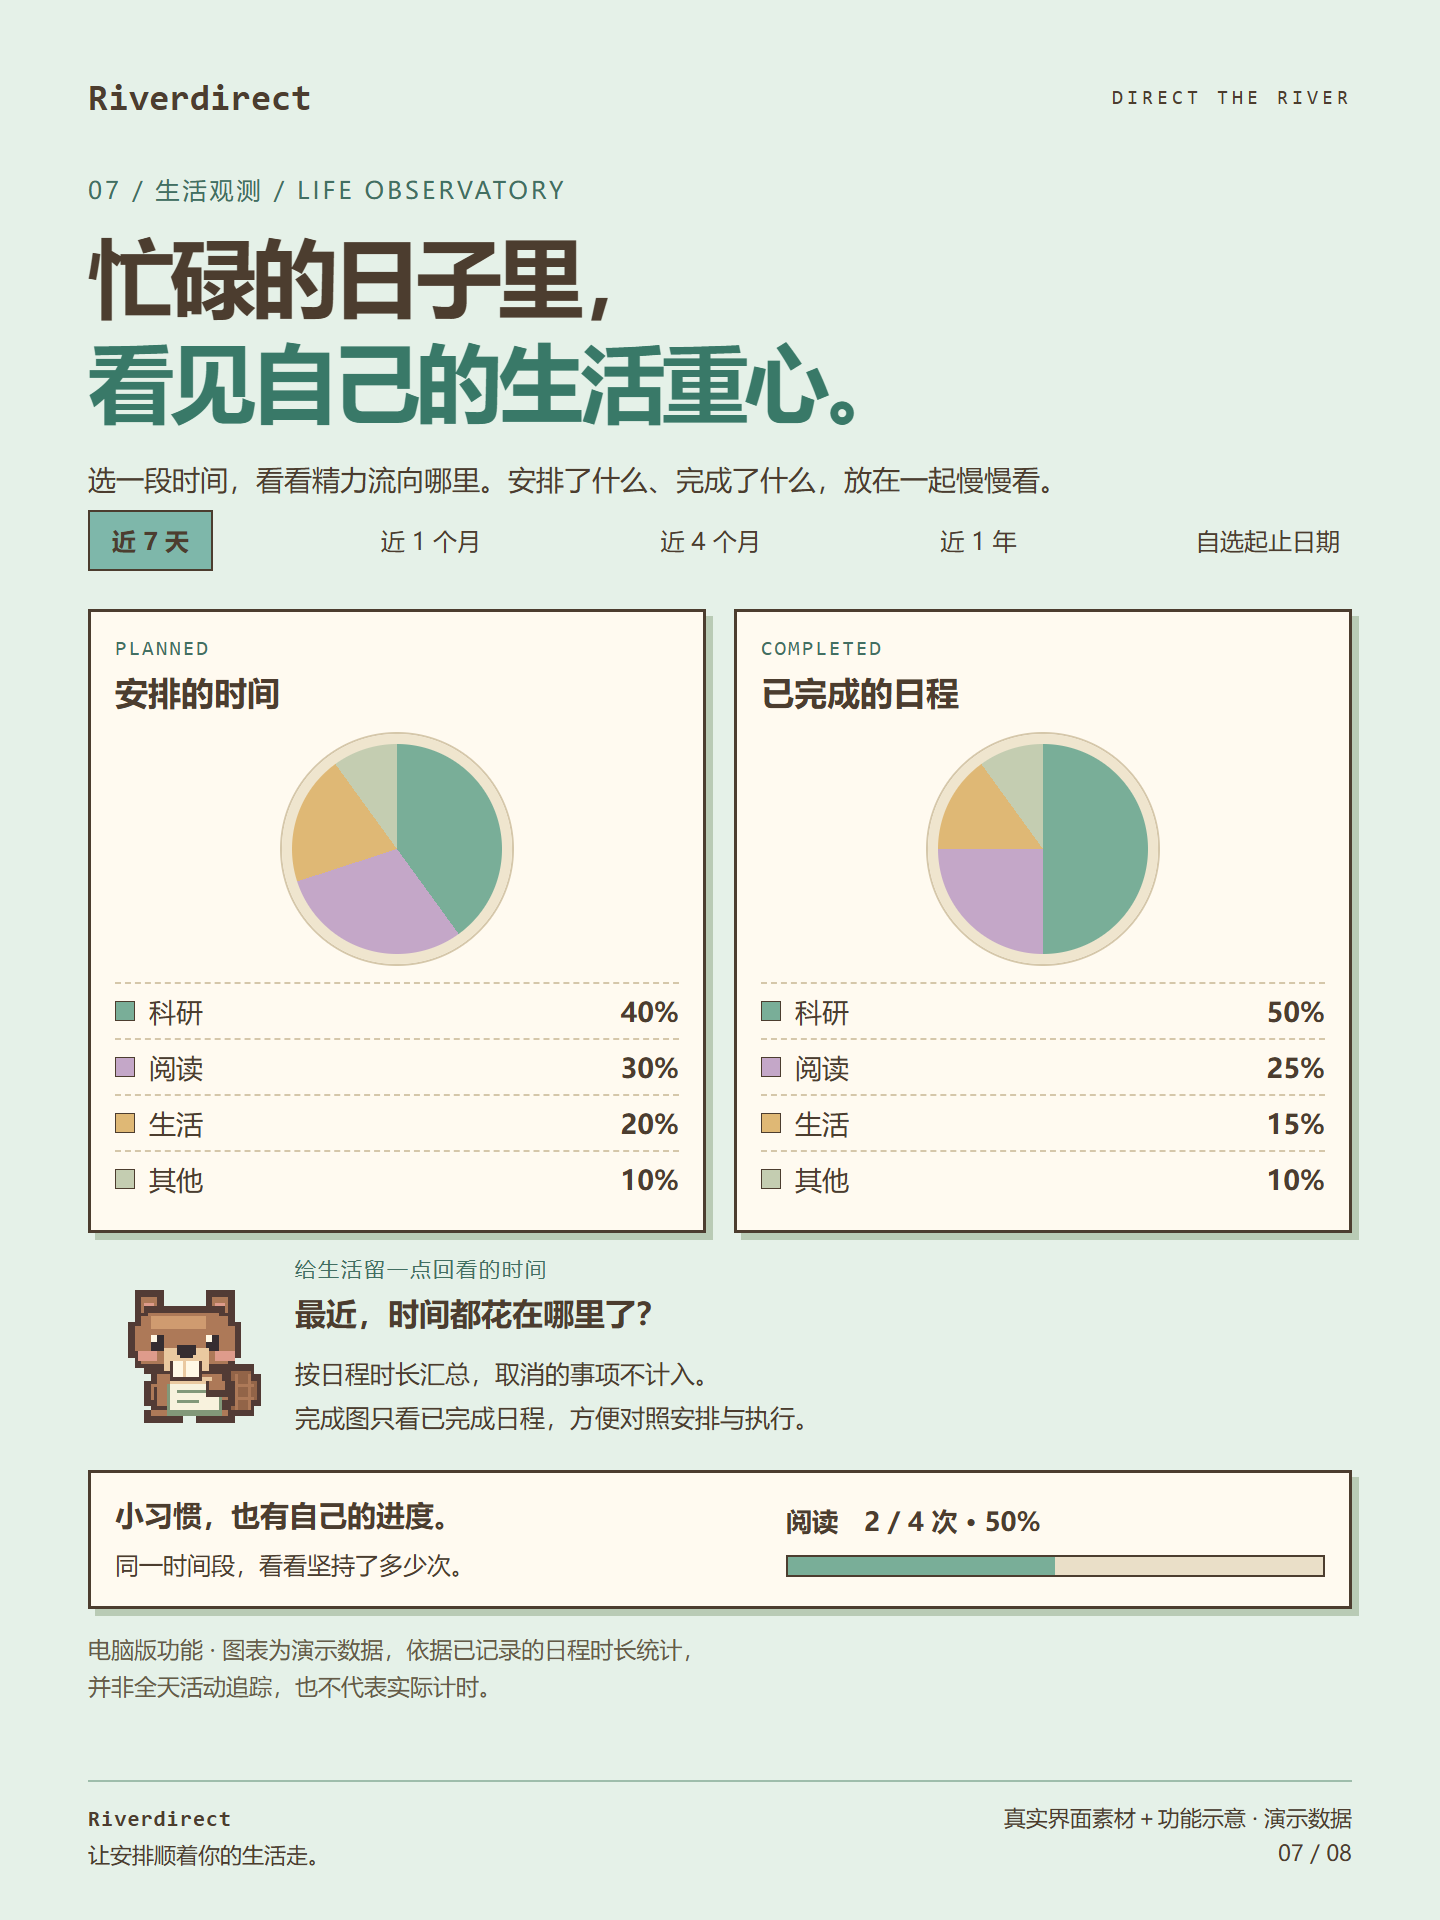
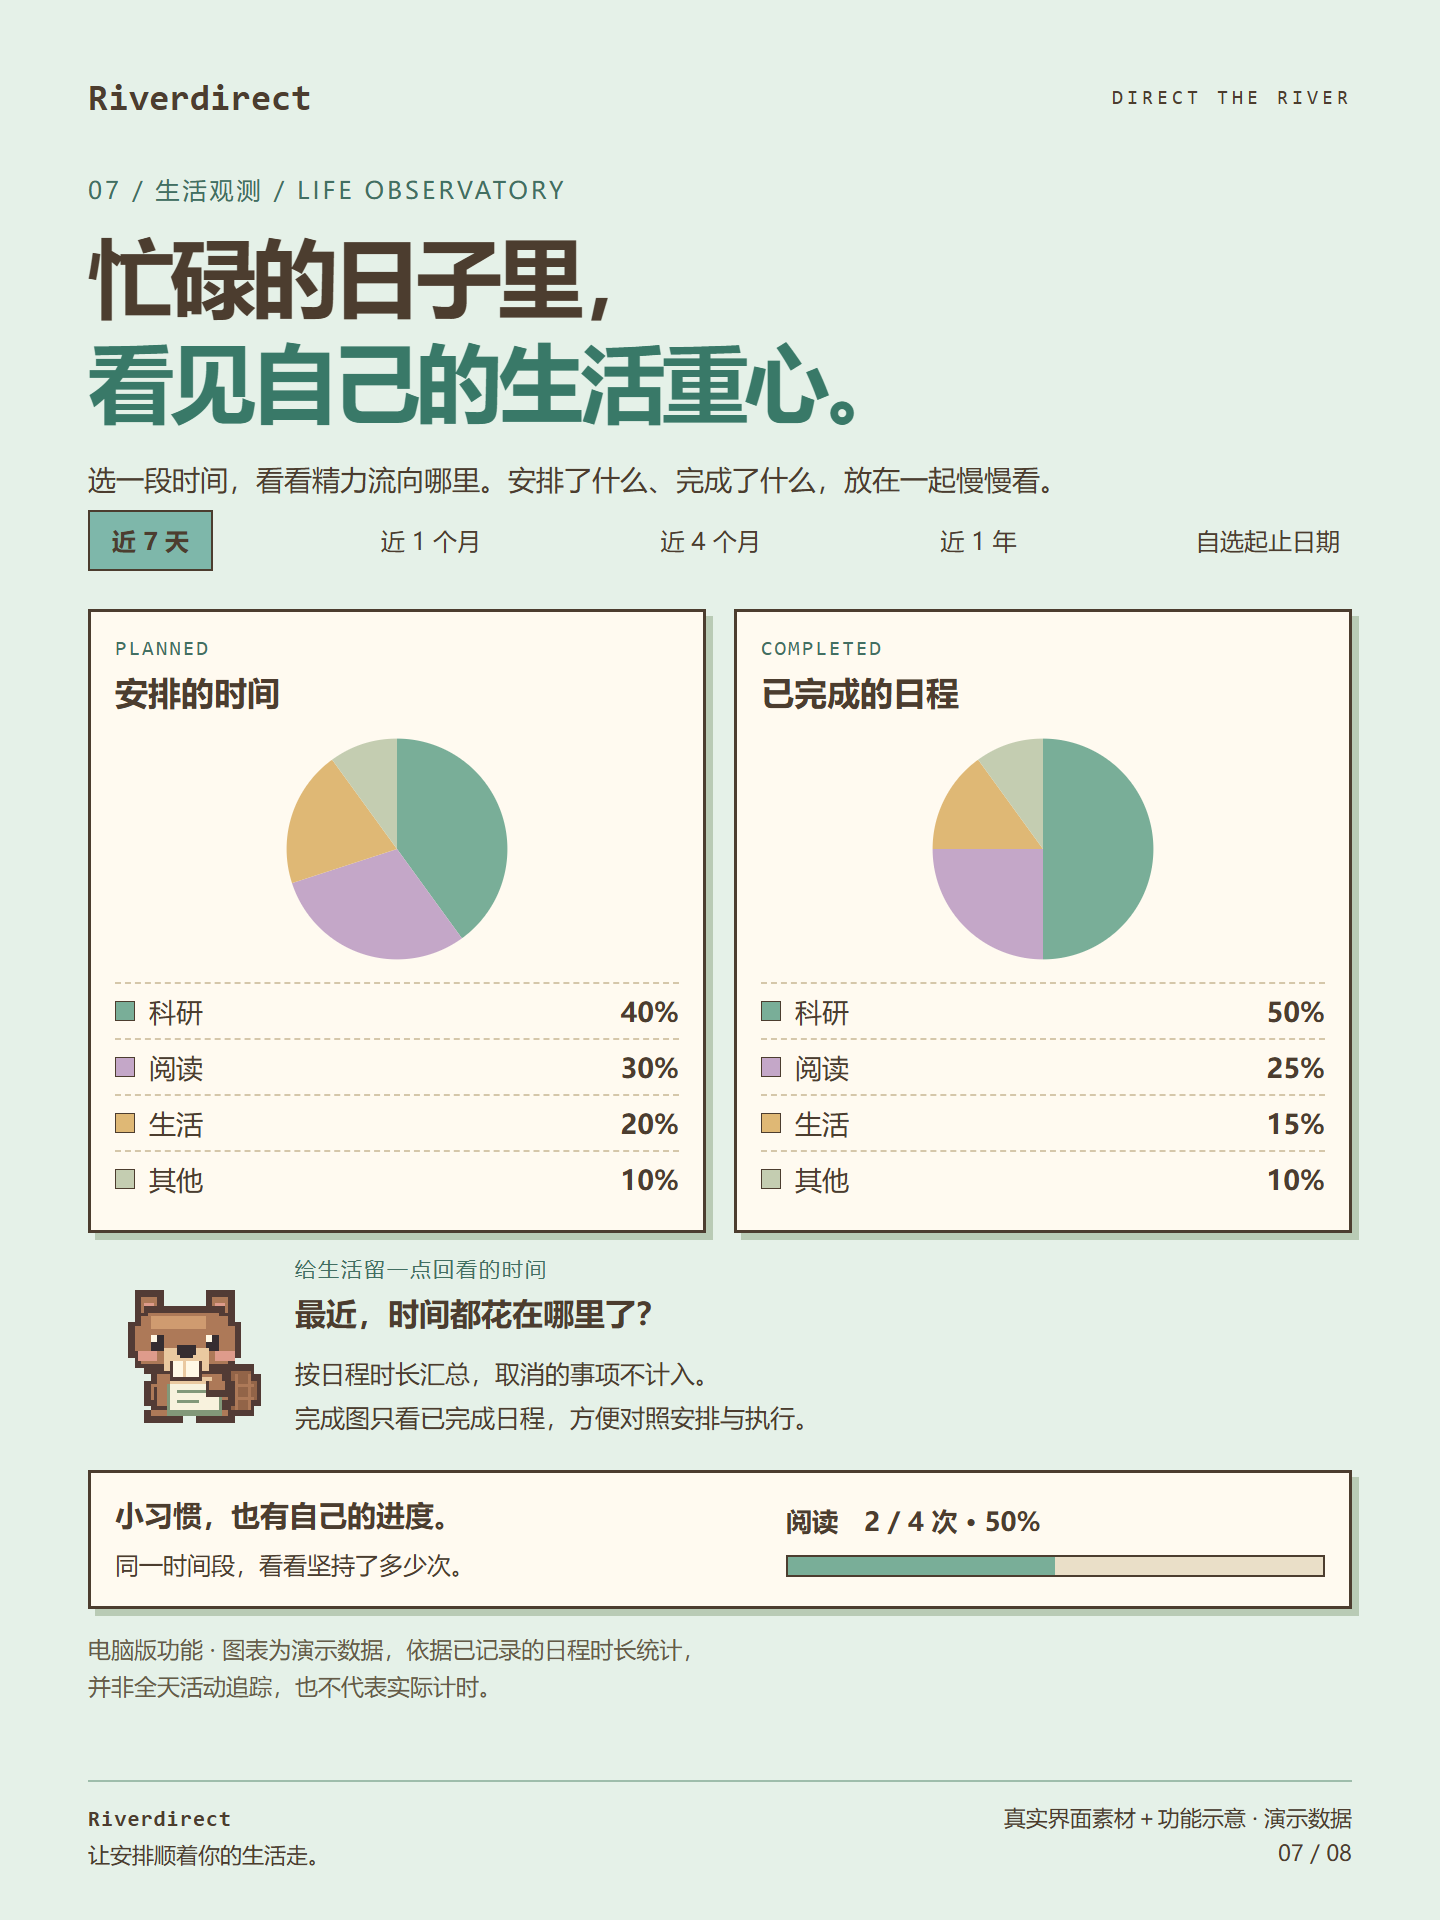
docs(release): document observation page and Chinese text fixes

diff --git a/README.md b/README.md
@@ -61,7 +61,7 @@
 
 ## 看看最近的生活重心
 
-电脑版“生活观测”提供近 7 天、1 个月、4 个月、1 年和自选日期范围。两张扇形图分别展示安排时间与已完成日程的类别占比，按记录的日程时长汇总，不计取消事项。它帮助回看安排与执行，并非全天活动追踪或实际用时测量。
+电脑版从侧栏进入独立的“生活观测”页面，采用纯色像素图表，提供近 7 天、1 个月、4 个月、1 年和自选日期范围。两张扇形图分别展示安排时间与已完成日程的类别占比，按记录的日程时长汇总，不计取消事项。它帮助回看安排与执行，并非全天活动追踪或实际用时测量。
 
 同一时间段还能查看小习惯完成比例，例如计划阅读 4 次、完成 2 次，就是 50%。
 
@@ -79,10 +79,10 @@
 
 | 设备 | 当前版本 | 使用方式 |
 |---|---|---|
-| Windows 10 / 11，64 位 | 0.1.30 | 下载 EXE，放入固定文件夹后双击，无需安装 Python |
-| Android | 0.1.30 | 下载 APK 安装，主要用于查看、询问、上传与提醒 |
+| Windows 10 / 11，64 位 | 0.1.31 | 下载 EXE，放入固定文件夹后双击，无需安装 Python |
+| Android | 0.1.31 | 下载 APK 安装，主要用于查看、询问、上传与提醒 |
 
-安卓包不是鸿蒙 6 原生应用。Windows EXE 约 90 MiB；APK 约 0.8 MB。两端当前版本统一为 0.1.30。
+安卓包不是鸿蒙 6 原生应用。Windows EXE 约 90 MiB；APK 约 0.8 MB。两端当前版本统一为 0.1.31。
 
 1. 可以先不登录，手动添加日程、体验日历和计时。
 2. 需要 AI 时，在设置中填写服务商接口地址、模型和 API Key；每台设备单独填写 Key。
@@ -103,15 +103,11 @@
 
 GitHub 在 Release 页面自动显示的 “Source code (zip)” 和 “Source code (tar.gz)” 是公开资料归档，名称由 GitHub 固定；其中不包含应用源码、SQL、测试脚本或个人数据。
 
-## 当前版本 0.1.30
+## 当前版本 0.1.31
 
-这次增加电脑悬浮窗点击表情，并调整两端的小河休息形象：仰躺、侧脸朝上，保留轻微呼吸。
+生活观测改为独立页面，保留侧栏导航；图表、卡片和进度条统一为纯色像素风。修复生活观测、陪伴记忆、备忘分类管理及手机部分提示显示问号的问题，并增加构建前文字检查。
 
-Windows 精简包仅保留简体中文与英文的系统界面语言资源，日程和备忘仍可输入其他语言。
-
-本次增加分批恢复和恢复进度：重新安装手机后，软件会逐批补齐所选缓存范围内的数据，中断后可继续。请保持两端运行和联网。
-
-两端保留习惯打卡和分次续排，手机多项日程可先预览再确认；电脑可拖动日程边缘，调整时长或跨日范围。小河空闲时轮换修坝与玩手机，休息时仰躺，侧脸朝上。此前的同步内容校验、页面脚本限制、本机凭证保护和电脑运行时安全更新均保留。
+保留生活观测双图、小习惯自定义频率与日历贴纸、多层备忘分类，以及原有悬浮河狸互动、分批同步恢复和电脑自有网盘备份。生活观测目前仅在电脑提供，习惯新建与完成／取消打卡支持电脑和手机。
 
 建议两端一起更新：电脑退出程序后替换 EXE，保留旁边的 data；安卓覆盖安装，不要先卸载。具体操作与功能限制见[使用说明](使用说明.md)。
 

diff --git a/0.1.31更新说明.md b/0.1.31更新说明.md
@@ -1,0 +1,8 @@
+# Riverdirect 0.1.31 更新说明
+
+- 生活观测改为独立页面，从侧栏进入，保留侧栏导航。可直接返回日历，或切换备忘格子。
+- 移除生活观测的渐变和大圆角，采用纯色扇形图（圆盘边缘保持光滑）、方角卡片和实色进度条。
+- 修复生活观测、陪伴记忆、备忘分类管理、习惯图片错误提示，以及手机端部分日期和打卡提示显示问号的问题。
+- 增加构建前中文损坏检查，防止问号文字再次进入安装包。
+
+Windows 与 Android 统一为 0.1.31。本次无需执行新 SQL。电脑更新时退出旧程序后替换 EXE，保留旁边的 data；安卓覆盖安装，不要先卸载。

diff --git a/0.1.30更新说明.md b/0.1.30更新说明.md
@@ -10,5 +10,5 @@ Windows 与 Android 版本统一为 0.1.30。
 
 本次无需执行新的 SQL。电脑更新时退出旧程序并保留 data；安卓覆盖安装，不要先卸载。
 
-- ????????????????????? Riverdirect ????????????????????????? 16?16 ?????????????????
-- ???????????????????????????????? AI ????????????????
+- 可上传自己的图片作为习惯图标，勾选后在本机生成 16×16 像素图；图片不会由 Riverdirect 自动上传至第三方图像服务。
+- 图表依据日程记录计算，并非全天活动追踪；自然语言操作需配置 AI。
